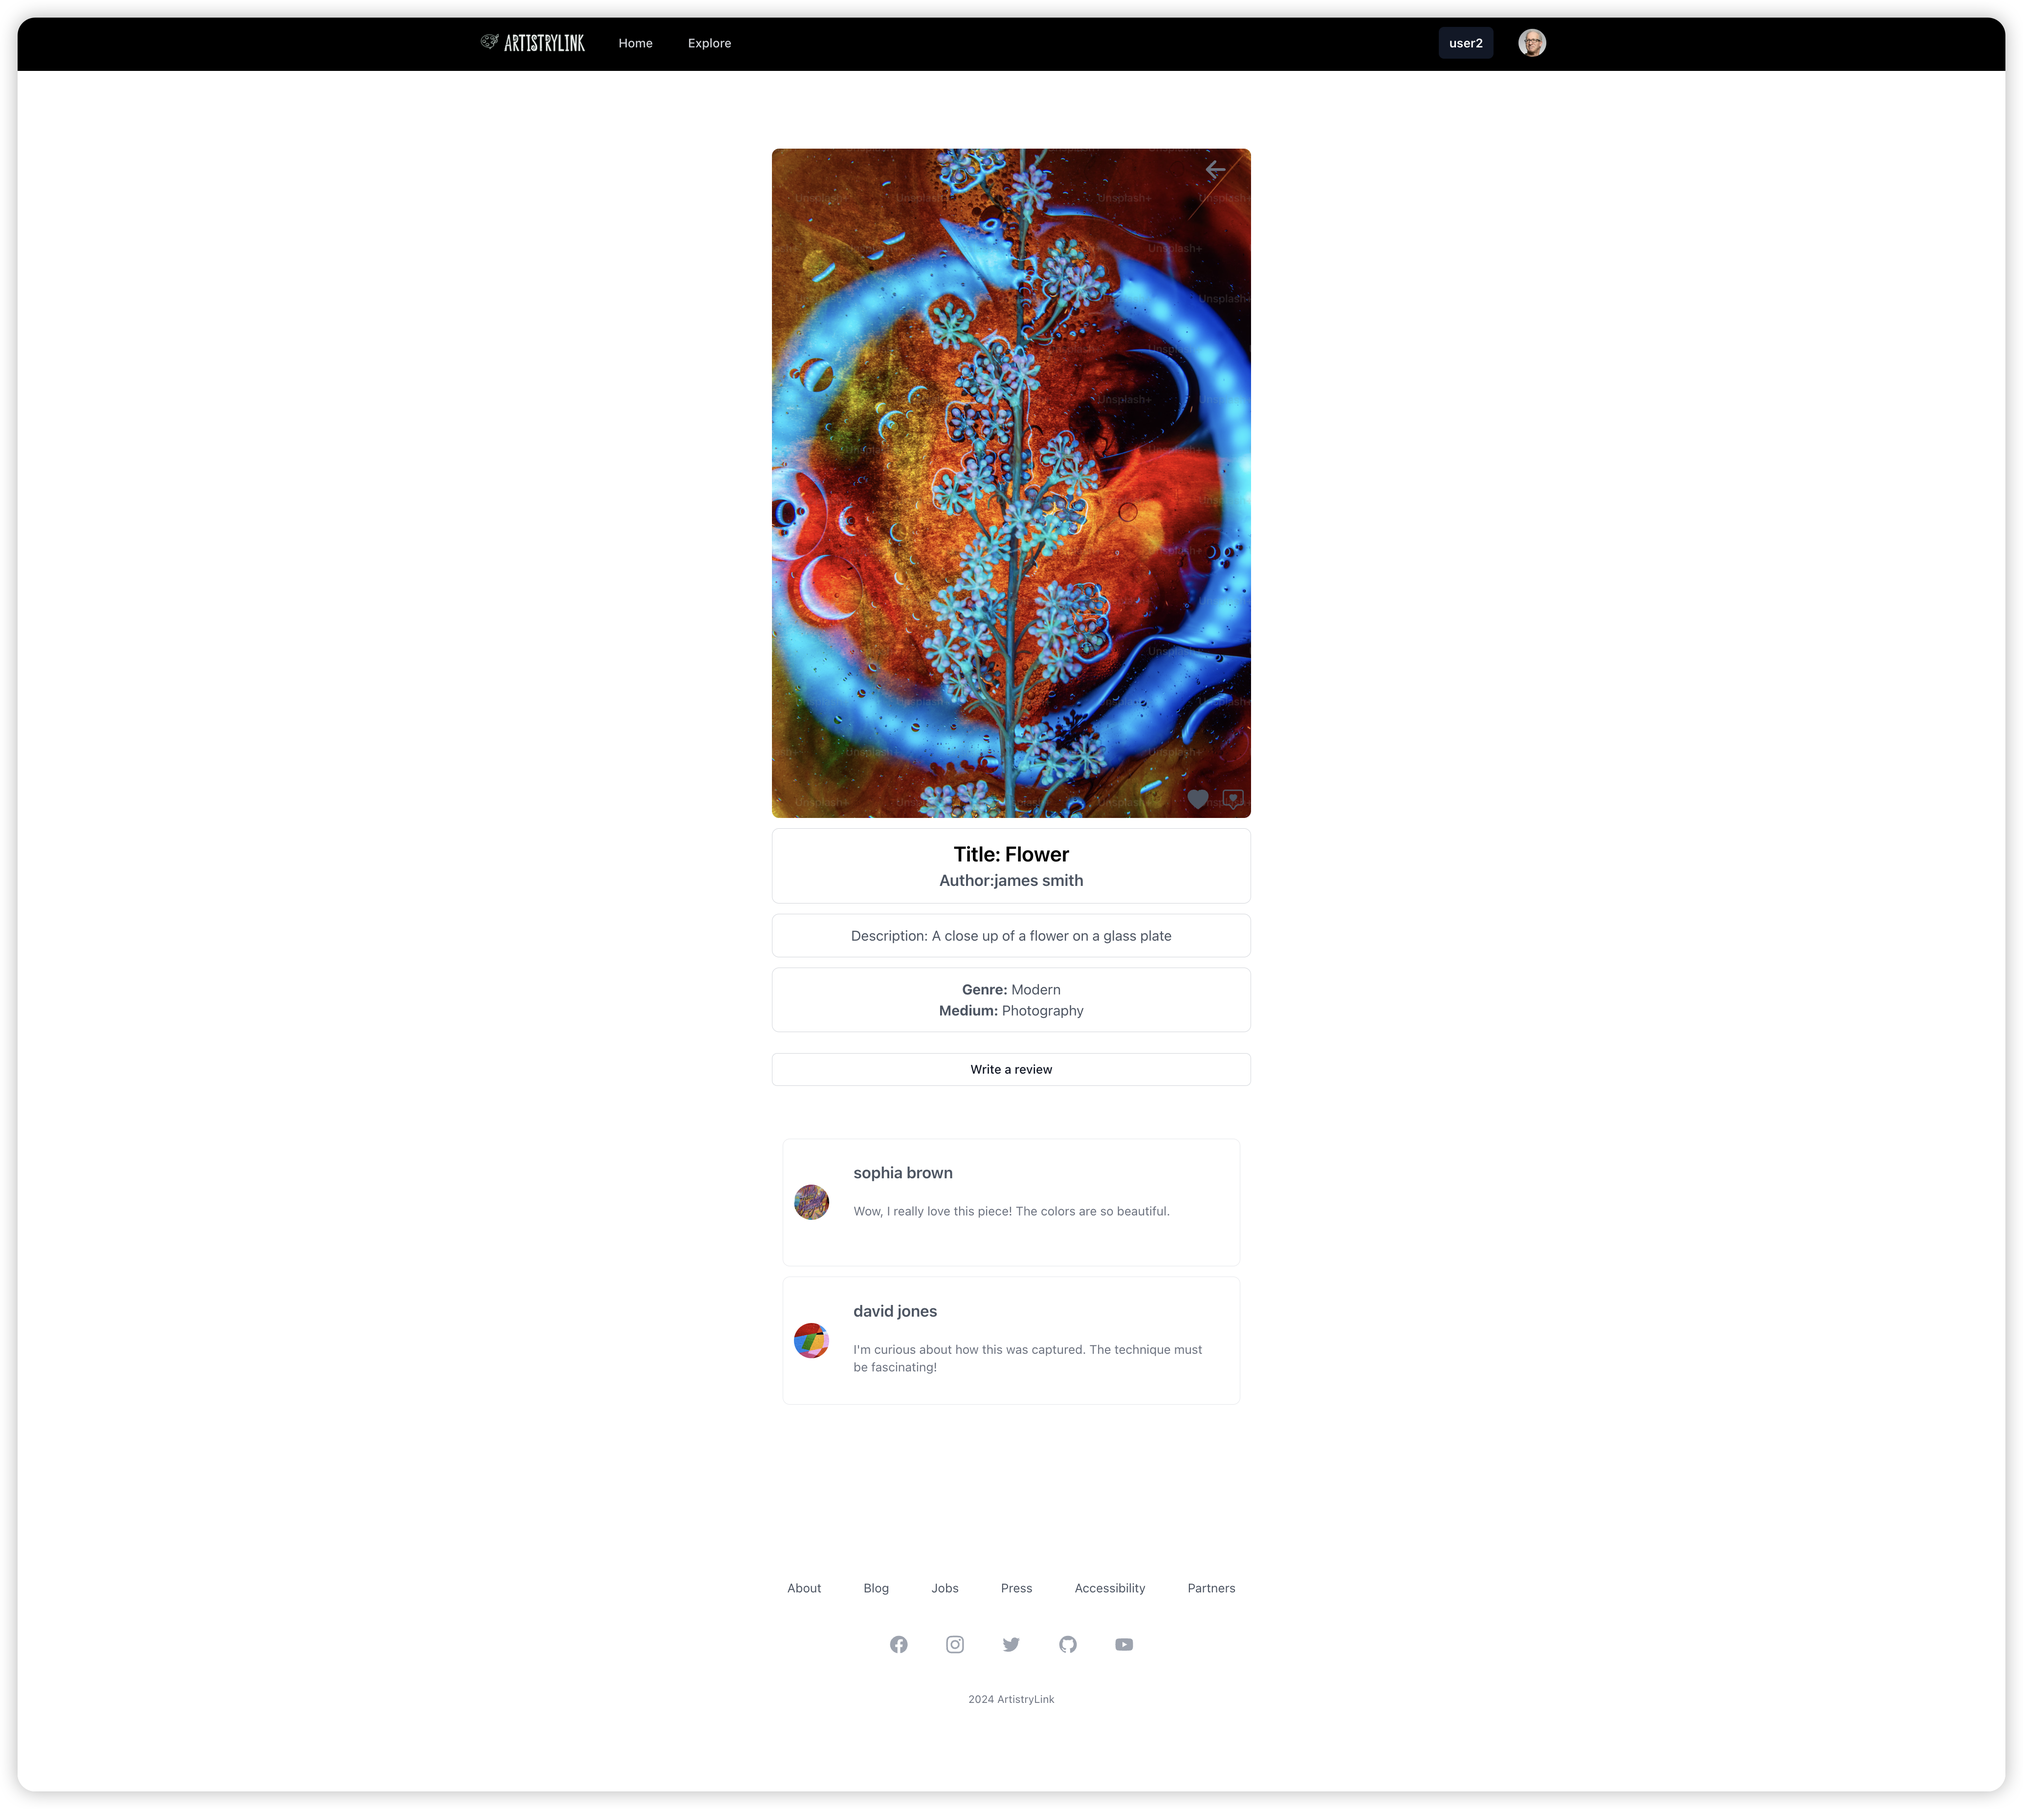
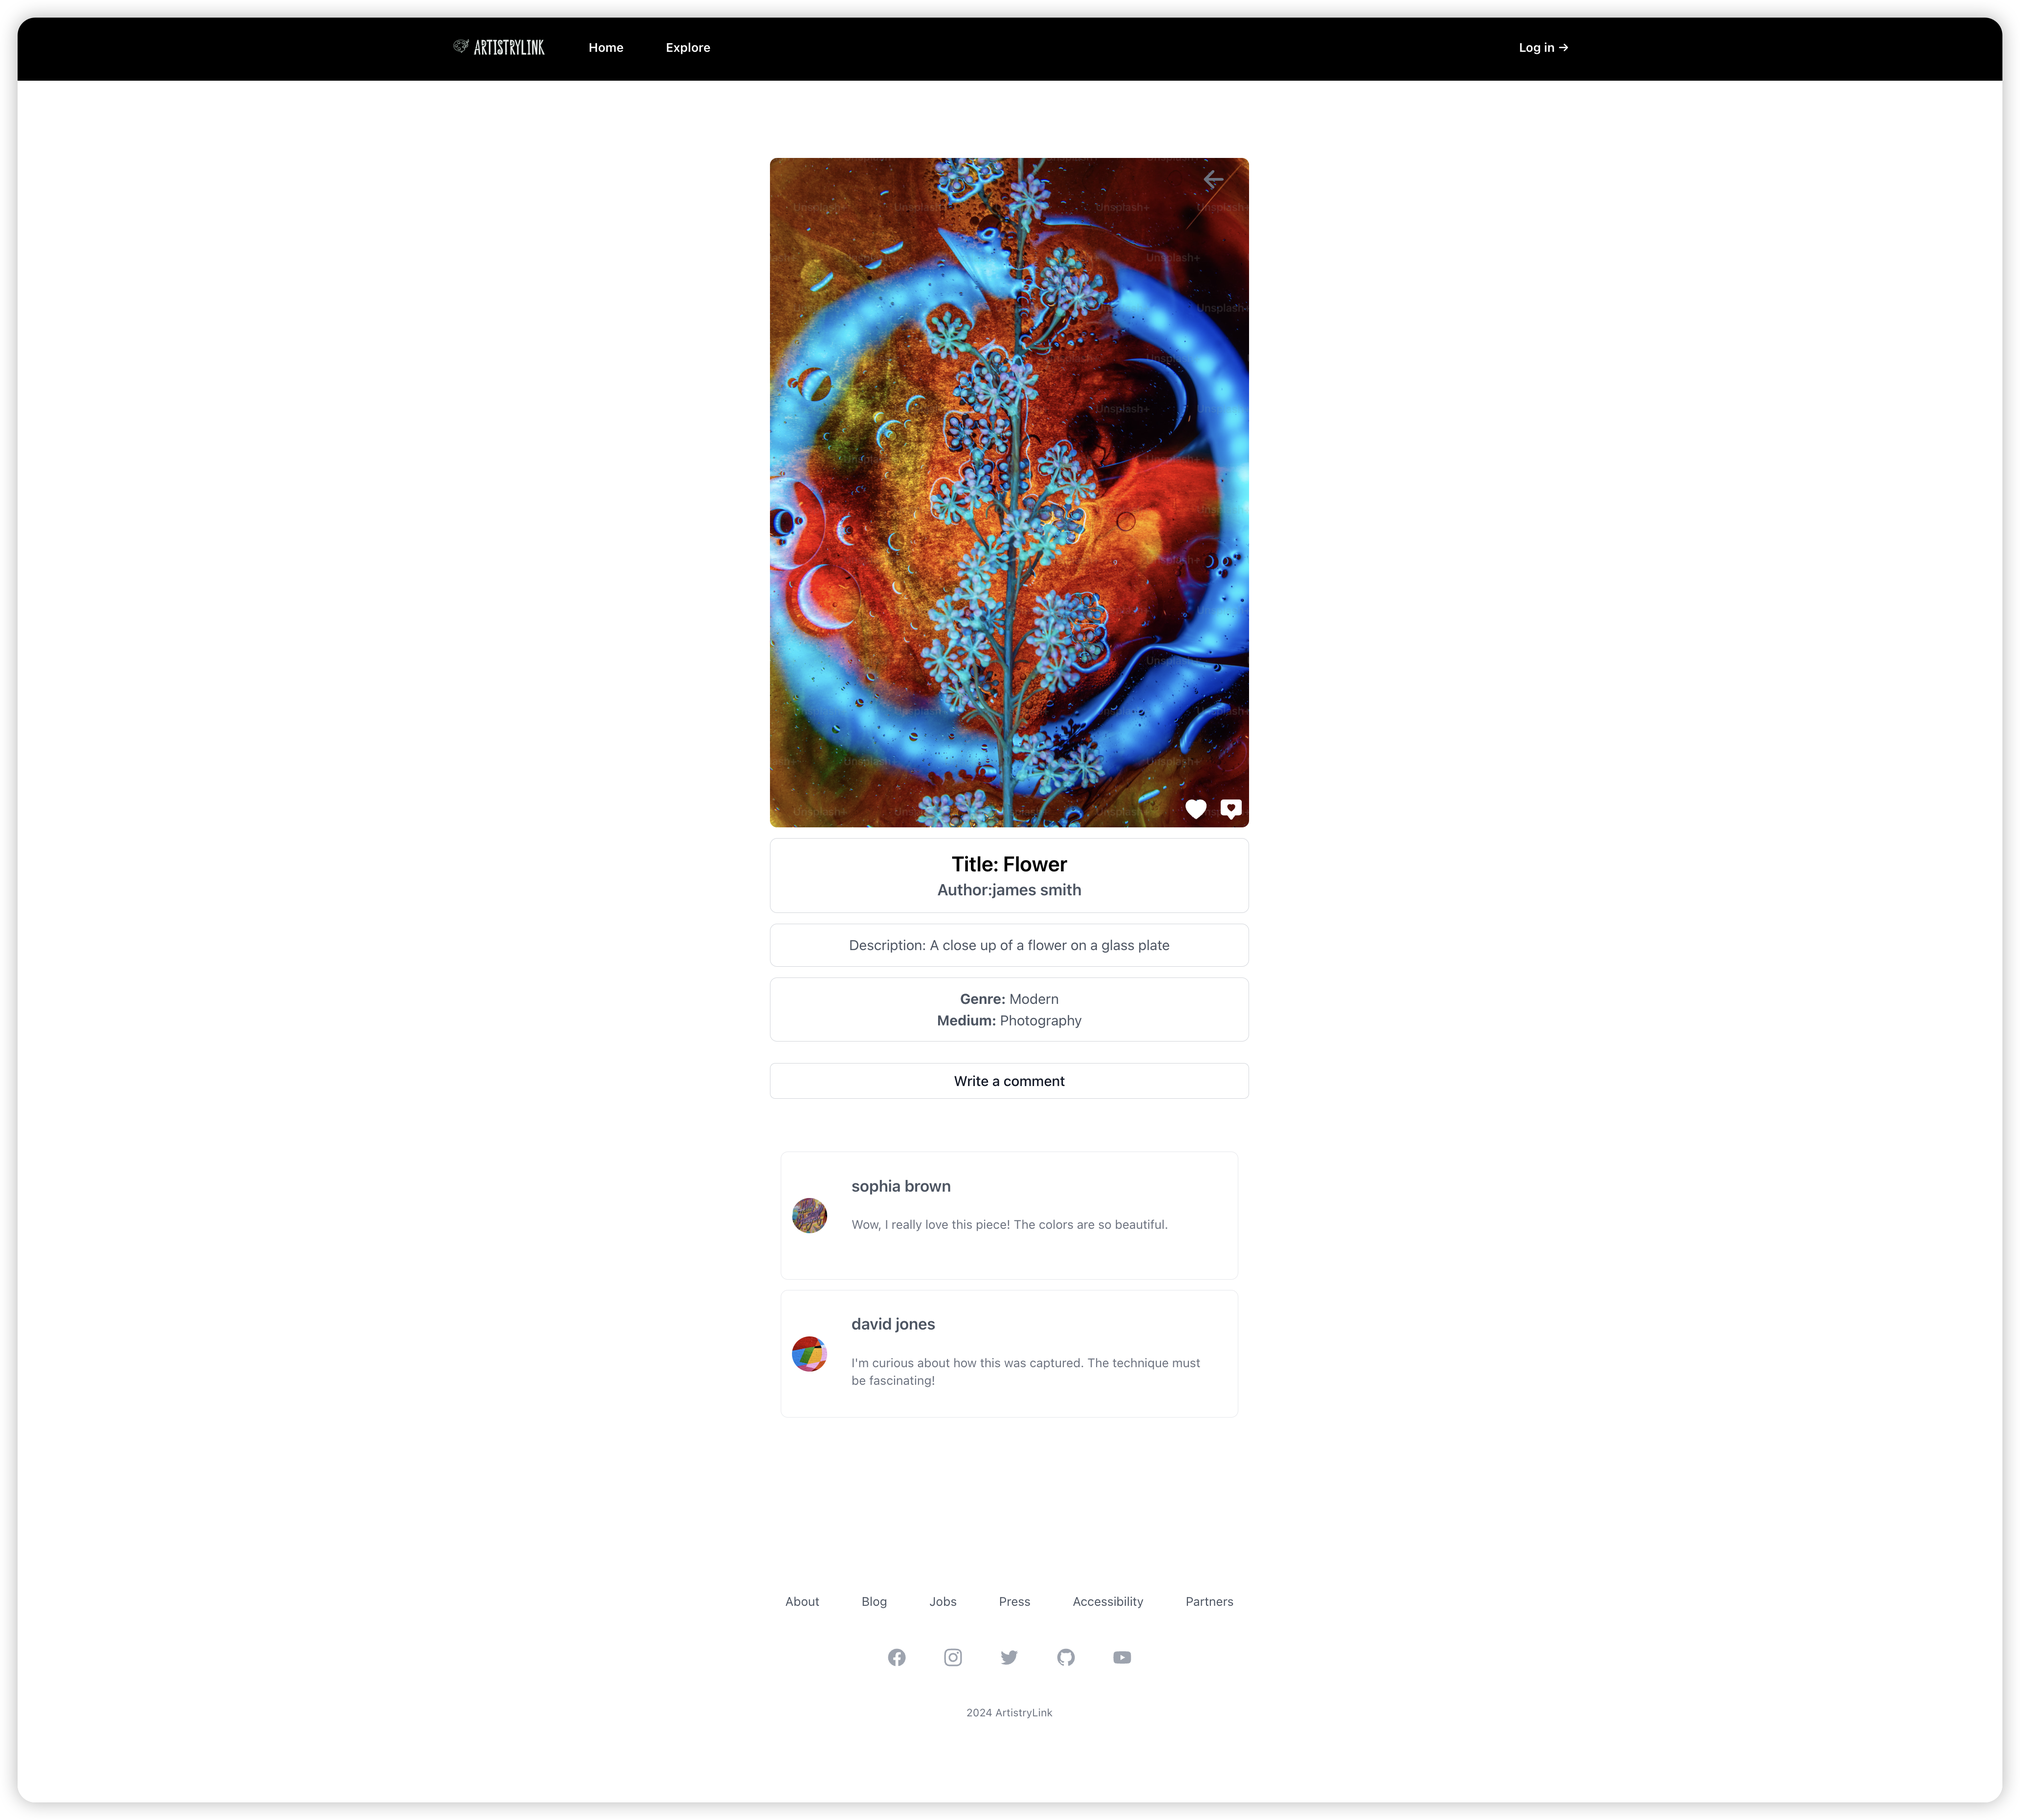
update styling

diff --git a/Atristry-Frontend/src/pages/ArtworkDetailPage.js b/Atristry-Frontend/src/pages/ArtworkDetailPage.js
@@ -1,6 +1,6 @@
 import React, { useEffect } from 'react';
 import { Link, useParams, useNavigate } from 'react-router-dom';
-import { BsHeartFill, BsChatSquareHeart } from 'react-icons/bs';
+import { BsHeartFill, BsChatSquareHeart, BsChatSquareHeartFill } from 'react-icons/bs';
 import Header from '../components/Header';
 import Footer from '../components/Footer';
 import { usePopup } from '../hooks/usePopup';
@@ -106,7 +106,7 @@ export default function ArtworkDetailPage({ artwork }) {
 
 						{/* Heart Icon */}
 						<button
-							className="absolute bottom-0 right-0 mb-2 mr-12 flex items-center space-x-1 text-gray-600 hover:text-pink-600 focus:outline-none"
+							className="absolute bottom-0 right-0 mb-2 mr-12 flex items-center space-x-1 text-white hover:text-pink-600 focus:outline-none"
 							onClick={handleFavoriteClick}>
 							{isFavorited ? (
 								<BsHeartFill className="w-6 h-6 text-pink-600" />
@@ -118,9 +118,9 @@ export default function ArtworkDetailPage({ artwork }) {
 						{/* Comment Icon */}
 						<button
 							onClick={openPopup}
-							className="absolute bottom-0 right-0 mb-2 mr-2 flex items-center space-x-1 text-gray-600 hover:text-indigo-600 focus:outline-none">
+							className="absolute bottom-0 right-0 mb-2 mr-2 flex items-center space-x-1 text-white hover:text-indigo-600 focus:outline-none">
 							{/* <Link to={`/comments/${id}`}> */}
-							<BsChatSquareHeart className="w-6 h-6" />
+							<BsChatSquareHeartFill className="w-6 h-6" />
 							{/* </Link> */}
 						</button>
 						{showPopup && <CommentPopup onClose={closePopup} artworkID={id} />}
@@ -154,8 +154,8 @@ export default function ArtworkDetailPage({ artwork }) {
 					<div>
 						<button
 							onClick={openPopup}
-							className="mt-6 inline-flex w-full items-center justify-center rounded-md border border-gray-300 bg-white px-8 py-2 text-sm font-medium text-gray-900 hover:bg-indigo-500 hover:text-white sm:w-auto lg:w-full">
-							Write a review
+							className="mt-6 inline-flex w-full items-center justify-center rounded-md border border-gray-300 bg-white px-8 py-2 text-large font-medium text-gray-900 hover:bg-indigo-500 hover:text-white sm:w-auto lg:w-full">
+							Write a comment
 						</button>
 					</div>
 				</div>
@@ -165,7 +165,11 @@ export default function ArtworkDetailPage({ artwork }) {
 					{comments && comments.length > 0 ? (
 						comments.map((comment) => <CommentCard key={comment.id} comment={comment} />)
 					) : (
-						<p>No comments yet.</p>
+						<div className="flex flex-col items-center justify-center p-10">
+							<BsChatSquareHeart className="w-12 h-12 text-gray-400" /> {/* 示例图标 */}
+							<p className="mt-2 text-lg font-semibold text-gray-600">No comments yet</p>
+							<p className="text-sm text-gray-500">Be the first to share what you think!</p>
+						</div>
 					)}
 				</div>
 			</div>
